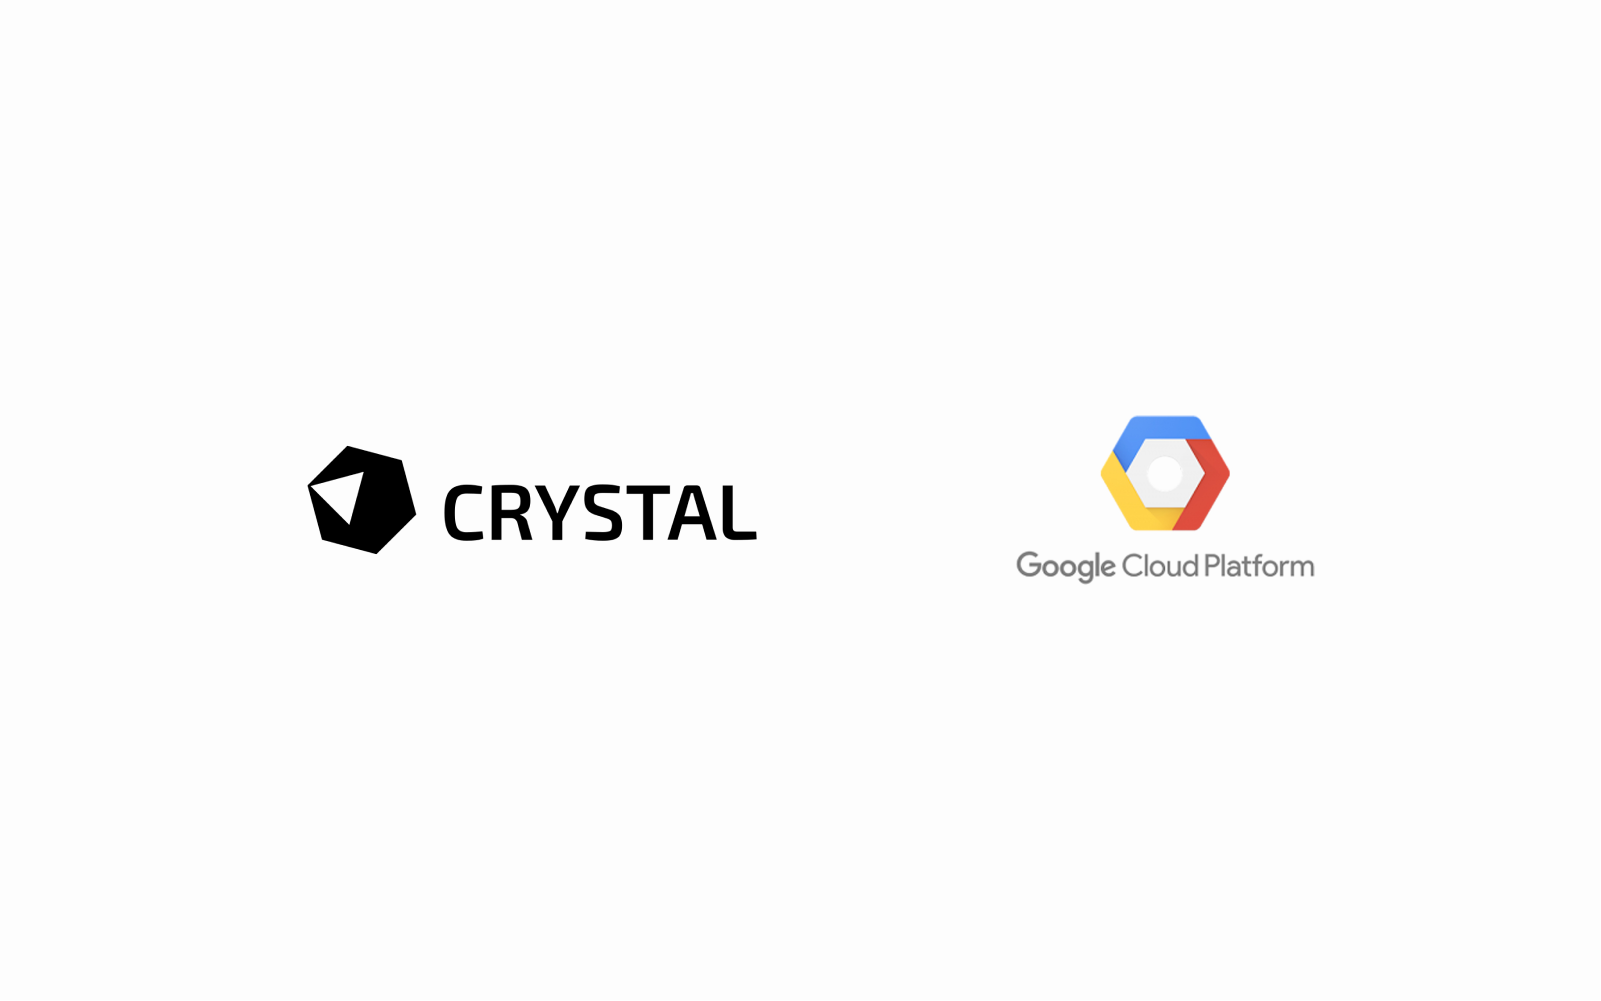
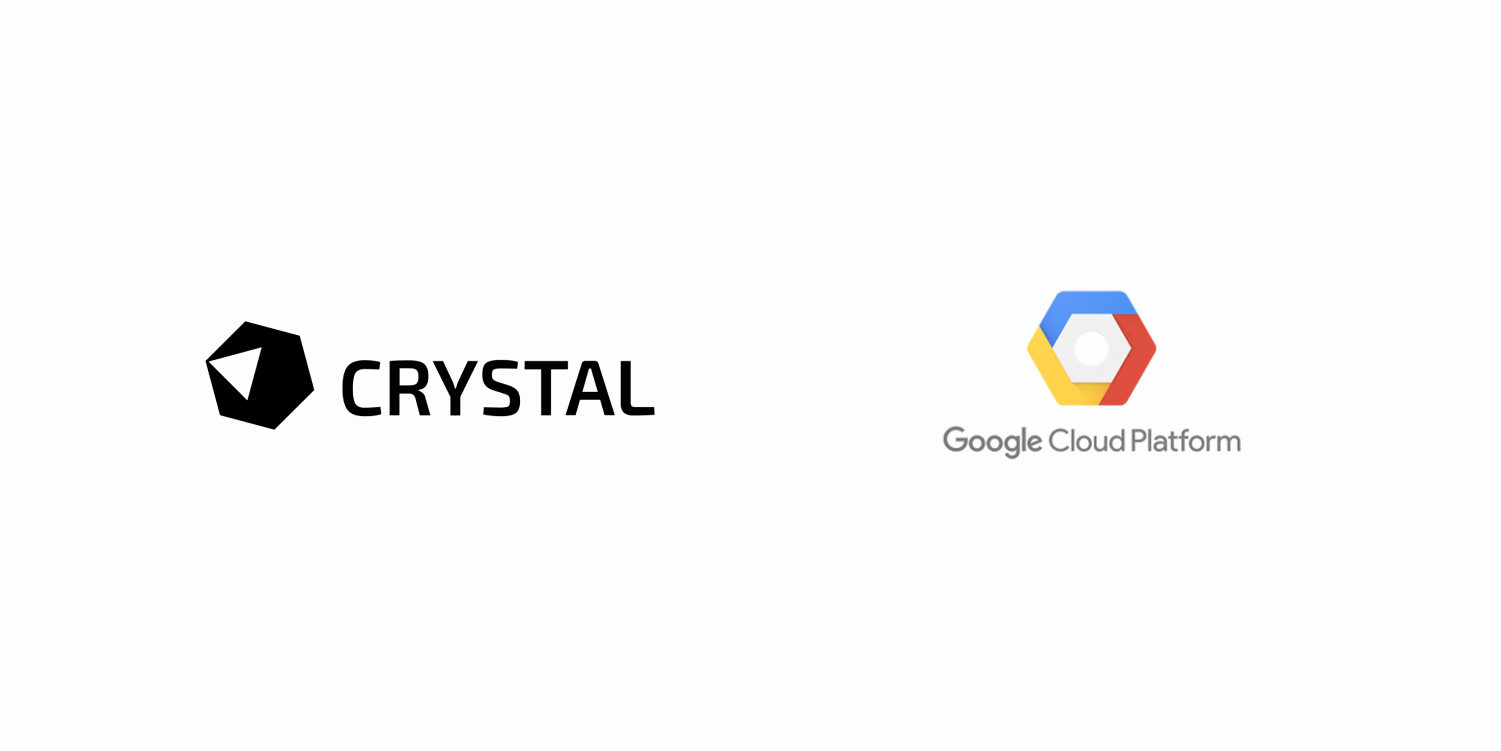
style: overall spaces and margin

Changed region(s): [[0.1226, 0.4288, 0.4903, 0.5819], [0.6129, 0.3675, 0.8274, 0.6125]]

diff --git a/src/components/layout.tsx b/src/components/layout.tsx
@@ -7,8 +7,8 @@ import favicon from "../../assets/images/favicon.ico";
 import Header from "../components/header";
 import Footer from "../components/footer";
 
-import "../tailwind.css";
 import "highlight.js/styles/github.css";
+import "../tailwind.css";
 
 interface Props {
   children: React.ReactNode;
@@ -35,8 +35,8 @@ const Layout = memo(({ children }: Props) => (
           </Helmet>
           <div className="flex flex-col min-h-screen">
             <Header siteTitle={data.site.siteMetadata.title} />
-            <div className="flex justify-center py-4 flex-1">
-              <div className="w-4/5">{children}</div>
+            <div className="flex justify-center p-4 flex-1">
+              <div className="w-full md:w-2/3">{children}</div>
             </div>
             <Footer />
           </div>

diff --git a/src/templates/blog-post.tsx b/src/templates/blog-post.tsx
@@ -33,7 +33,7 @@ const Quote = ({ children }: remarkProps) => (
 
 const Code = props => (
   <div className="my-2">
-    <Highlight {...props} />
+    <Highlight className="p-4 rounded leading-normal" {...props} />
   </div>
 );
 
@@ -89,7 +89,7 @@ export default memo(({ data }: Props) => {
     <Layout>
       <div className="flex flex-col">
         <div className="mt-1 mb-4">
-          <h1 className="text-black text-xlg mb-2">{post.frontmatter.title}</h1>
+          <h1 className="text-black text-xlg my-5">{post.frontmatter.title}</h1>
           <div className="w-full h-px bg-grey-lighter my-2" />
           <p className="text-grey text-sm my-2">{post.frontmatter.date}</p>
           {post.frontmatter.thumbnail && (

diff --git a/src/pages/me.tsx b/src/pages/me.tsx
@@ -1,6 +1,6 @@
-import * as React from 'react'
+import * as React from "react";
 
-import Layout from '../components/layout'
+import Layout from "../components/layout";
 
 const MePage = () => {
   return (
@@ -10,7 +10,7 @@ const MePage = () => {
         Hi, I'm Kazushi Kawamura working as a Software Engineer based in Tokyo.
       </p>
     </Layout>
-  )
-}
+  );
+};
 
-export default MePage
+export default MePage;

diff --git a/src/components/header.tsx b/src/components/header.tsx
@@ -6,8 +6,8 @@ import logo from "../../assets/images/logo.png";
 import avatar from "../../assets/images/avatar.jpg";
 
 const Header = memo(() => (
-  <div className="flex justify-center py-4">
-    <div className="flex items-center max-w-5xl w-4/5">
+  <div className="flex justify-center px-4 py-3 shadow">
+    <div className="flex items-center w-full md:w-4/5">
       <Link
         to="/"
         style={{

diff --git a/src/pages/404.tsx b/src/pages/404.tsx
@@ -10,3 +10,4 @@ const NotFoundPage = memo(() => (
 ));
 
 export default NotFoundPage;
+
